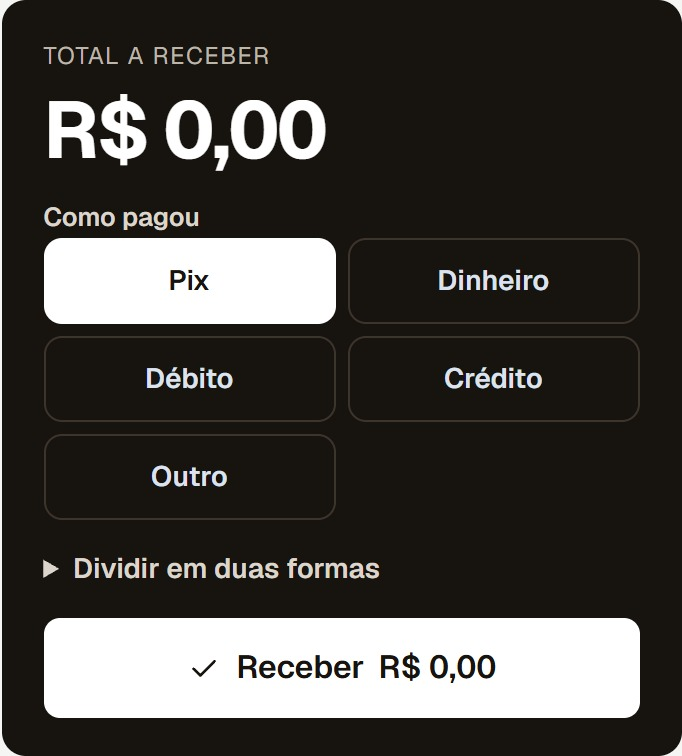
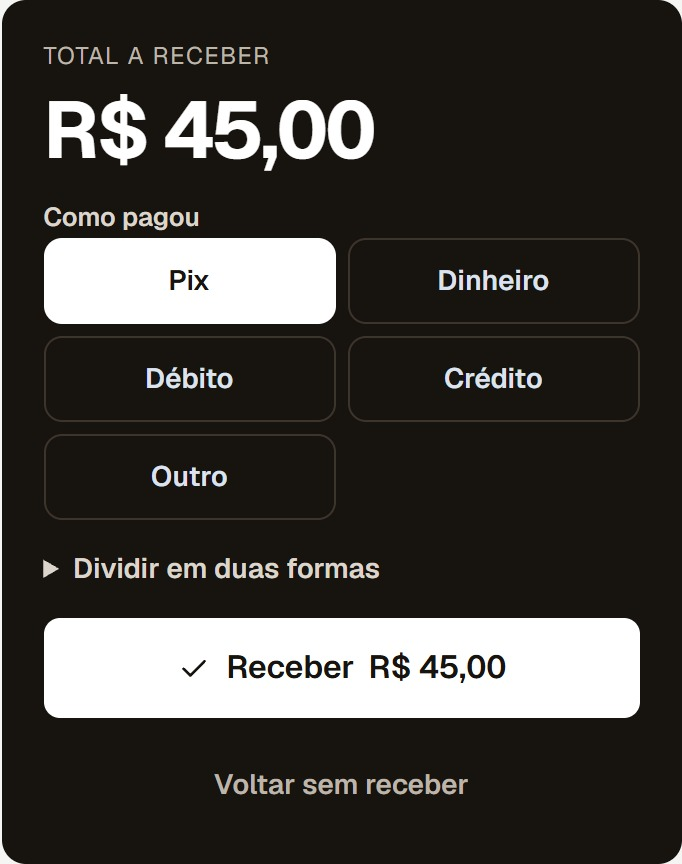
Home: comanda e comissao com dados reais, tabela sem quebra e cards de preco iguais aos de /planos.

diff --git a/src/web/site.ts b/src/web/site.ts
@@ -93,13 +93,13 @@ export function home(o: { trialDays: number; user: boolean; plans: any[]; billin
         <p class="kicker">Caixa</p>
         <h2>Atendeu, fechou a comanda.</h2>
         <p class="body">Serviço extra, pomada, desconto e pagamento em Pix, dinheiro com troco, débito, crédito ou dividido em dois. No fim do dia, o caixa mostra quanto entrou em cada forma e quanto devia ter na gaveta.</p>
-        <figure class="screen pay">${shot({ src: 'demo-comanda.jpg', w: 682, h: 756, alt: 'Comanda de um corte de 45 reais com as formas de pagamento Pix, dinheiro, débito, crédito ou outro' })}</figure>
+        <figure class="screen pay">${shot({ src: 'demo-comanda.jpg', w: 682, h: 864, alt: 'Comanda de um corte de 45 reais com as formas de pagamento Pix, dinheiro, débito, crédito ou outro' })}</figure>
       </div>
       <div>
         <p class="kicker">Comissão</p>
         <h2>Comissão que o barbeiro entende.</h2>
         <p class="body">Você define a porcentagem de cada um. A cada comanda, o sistema separa o que é dele e o que fica na barbearia, já com o desconto tirado. Produto vendido não entra. Ele vê a dele no celular; você vê a de todos.</p>
-        <figure class="screen">${shot({ src: 'demo-comissao.jpg', w: 1148, h: 692, alt: 'Comissões do mês por barbeiro: quanto atendeu, quanto é dele e quanto fica na barbearia, com explicação do cálculo' })}</figure>
+        <figure class="screen">${shot({ src: 'demo-comissao.jpg', w: 1148, h: 750, alt: 'Comissões do mês por barbeiro: quanto atendeu, quanto é dele e quanto fica na barbearia, com explicação do cálculo' })}</figure>
       </div>
     </div></section>
 
@@ -127,12 +127,7 @@ export function home(o: { trialDays: number; user: boolean; plans: any[]; billin
     <section class="prices" id="precos"><div class="wrap">
       <h2>Preços</h2>
       <p class="body">Mensalidade fixa, sem taxa por agendamento. Todos os planos começam com ${o.trialDays} dias grátis e incluem agenda, página de agendamento, lembretes, caixa e clientes.</p>
-      ${!priced ? h`<p class="price-note"><b>Os preços ainda estão sendo definidos.</b><span>Enquanto isso, você testa por ${o.trialDays} dias sem cartão. Nada é cobrado sem você escolher um plano, e o preço aparece aqui antes.</span></p>` : h`<div class="pl">${o.plans.map((p, i) => h`<article class="${i === 1 ? 'pick' : ''}">
-        <h3>${p.name}</h3>
-        <p class="pl-price">${p.price_cents > 0 ? h`<b>${brl(p.price_cents)}</b><small>/mês</small>` : h`<b class="tbd">Preço a definir</b>`}</p>
-        <p class="pl-limit">${p.max_professionals ? `Até ${p.max_professionals} profissionais` : 'Profissionais sem limite'}${(p.features as string[]).includes('comissoes') ? ' · comissões' : ''}</p>
-      </article>`)}</div>`}
-      <p class="more"><a href="/planos">Ver o que cada plano inclui</a></p>
+      ${!priced ? h`<p class="price-note"><b>Os preços ainda estão sendo definidos.</b><span>Enquanto isso, você testa por ${o.trialDays} dias sem cartão. Nada é cobrado sem você escolher um plano, e o preço aparece aqui antes.</span></p>` : h`<div class="price-grid home-prices">${priceCards(o.plans)}</div>`}
     </div></section>
 
     <section class="faq-home"><div class="wrap">
@@ -214,16 +209,21 @@ export function privacyPage(user: boolean) {
     <h2>9. Segurança</h2><p>Senhas protegidas por hash, conexões cifradas, separação dos dados de cada barbearia no banco, registro de ações sensíveis e cópias de segurança.</p>
     <p>Se acontecer um incidente de segurança que possa causar risco ou dano relevante às pessoas, avisamos a Autoridade Nacional de Proteção de Dados (ANPD) e os titulares afetados em até 3 dias úteis, como pede a Resolução CD/ANPD nº 15/2024, e as barbearias afetadas no mesmo prazo.</p>
     <h2>10. Alterações</h2><p>Esta política pode ser atualizada; mudanças relevantes serão avisadas no painel.</p></main>`, { user, desc: 'Política de privacidade.' });
-}export function plansPage(plans: any[], user: boolean, billingOpen = true) {
-  const priced = plans.some((p) => p.price_cents > 0);
-  return shell(`Planos · ${PLATFORM.name}`, h`<main>
-    <section class="wrap plans-head"><h1>Planos</h1><p>Mensalidade fixa, sem taxa por agendamento, sem fidelidade. Todos começam com teste grátis.</p>${billingOpen ? '' : launchNotice}</section>
-    <section class="wrap price-grid">${plans.map((p, i) => h`<article class="price-card ${i === 1 ? 'pick' : ''}">
+}
+/** Cards de plano: os mesmos na página inicial e em /planos. */
+function priceCards(plans: any[]) {
+  return plans.map((p, i) => h`<article class="price-card ${i === 1 ? 'pick' : ''}">
       <h2>${p.name}</h2>
       <p class="pc-price">${p.price_cents > 0 ? h`${brl(p.price_cents)}<small>/mês</small>` : h`<span class="muted">Preço em definição</span>`}</p>
       <p class="pc-trial">${p.trial_days} dias de teste</p>
       <ul><li>${p.max_professionals ? `Até ${p.max_professionals} profissionais` : 'Profissionais ilimitados'}</li>${(p.features as string[]).map((f) => h`<li>${FEATURE[f] ?? f}${SOON.has(f) ? h` <span class="soon">em breve</span>` : ''}</li>`)}</ul>
-      <a class="btn ${i === 1 ? 'primary' : ''} wide" href="/criar-conta">Testar grátis</a></article>`)}</section>
+      <a class="btn ${i === 1 ? 'primary' : ''} wide" href="/criar-conta">Testar grátis</a></article>`);
+}
+export function plansPage(plans: any[], user: boolean, billingOpen = true) {
+  const priced = plans.some((p) => p.price_cents > 0);
+  return shell(`Planos · ${PLATFORM.name}`, h`<main>
+    <section class="wrap plans-head"><h1>Planos</h1><p>Mensalidade fixa, sem taxa por agendamento, sem fidelidade. Todos começam com teste grátis.</p>${billingOpen ? '' : launchNotice}</section>
+    <section class="wrap price-grid">${priceCards(plans)}</section>
     <section class="wrap faq"><h2>Perguntas frequentes</h2>
       <details><summary>Preciso de cartão para testar?</summary><p>Não. Você cria a conta, configura e testa. A cobrança só começa quando você escolhe assinar.</p></details>
       <details><summary>Como pago?</summary><p>Pela tela Assinatura do painel. O pagamento é processado por um intermediador de pagamentos; nós não guardamos dados de cartão.</p></details>

diff --git a/src/web/ops.ts b/src/web/ops.ts
@@ -131,7 +131,7 @@ export function reportPage(ctx: Ctx, r: any, commissionsOn: boolean, f: F) {
     <section class="block"><div class="block-head"><h2>Faturamento por dia</h2></div>${r.revenue ? bars(r.days) : h`<p class="empty">Sem vendas registradas neste mês. As vendas entram aqui quando a comanda é fechada no caixa.</p>`}</section>
     <div class="cols">
       <section class="block"><h2>Comissões por profissional</h2>
-        ${commissionsOn ? (r.byPro.length ? h`${commissionExplainer(r.byPro[0], base)}<table class="mini comm"><thead><tr><th>Profissional</th><th class="r">Atendeu em serviços</th><th class="r">Para ele</th><th class="r">Para a barbearia</th></tr></thead><tbody>${r.byPro.map((p: any) => h`<tr><td><b>${p.name}</b><small class="muted"> · ${effPct(p)}% · ${p.count} ${p.count === 1 ? 'comanda' : 'comandas'}</small></td><td class="r">${brl(p.services)}</td><td class="r"><b>${brl(p.commission)}</b></td><td class="r muted">${brl(p.services - p.commission)}</td></tr>`)}</tbody></table>` : h`<p class="empty">Sem comandas no mês. A comissão aparece aqui quando um atendimento é cobrado no caixa.</p>`)
+        ${commissionsOn ? (r.byPro.length ? h`${commissionExplainer(r.byPro[0], base)}<table class="mini comm"><thead><tr><th>Profissional</th><th class="r">Atendeu em serviços</th><th class="r">Para ele</th><th class="r">Para a barbearia</th></tr></thead><tbody>${r.byPro.map((p: any) => h`<tr><td><b>${p.name}</b><small class="muted">${effPct(p)}% · ${p.count} ${p.count === 1 ? 'comanda' : 'comandas'}</small></td><td class="r">${brl(p.services)}</td><td class="r"><b>${brl(p.commission)}</b></td><td class="r muted">${brl(p.services - p.commission)}</td></tr>`)}</tbody></table>` : h`<p class="empty">Sem comandas no mês. A comissão aparece aqui quando um atendimento é cobrado no caixa.</p>`)
           : h`<div class="upsell"><p>O cálculo automático de comissões faz parte do plano Profissional.</p>${can(ctx, 'billing.manage') ? h`<a class="btn sm" href="${base}/assinatura">Ver planos</a>` : ''}</div>`}
       </section>
       <section class="block"><h2>Formas de pagamento</h2>${r.pays.length ? h`<ul class="barlist">${r.pays.map((p: any) => h`<li><span>${METHODS[p.method]}</span><i style="--w:${Math.round((p.v / Math.max(1, r.revenue)) * 100)}%"></i><b>${brl(p.v)}</b></li>`)}</ul>` : h`<p class="empty">—</p>`}

diff --git a/src/public/app.css b/src/public/app.css
@@ -598,9 +598,9 @@ a.now-name:hover{text-decoration:underline;text-underline-offset:4px}
 .explain{font-size:14px;line-height:1.55;color:var(--ink2,var(--ink));background:var(--info-soft);border-radius:var(--r);padding:12px 14px;margin:0 0 14px}
 .explain b{color:var(--ink)}
 .explain a{display:inline-block;margin-left:4px;font-weight:600}
-.comm td small{white-space:nowrap}
-.comm th{text-align:left;font-size:12px;color:var(--muted);font-weight:600;vertical-align:bottom}
-.comm th.r{text-align:right}
+.comm td small{display:block;margin-top:2px;font-size:12.5px}
+.comm th{text-align:left;font-size:12px;color:var(--muted);font-weight:600;vertical-align:bottom;padding:0 0 8px;white-space:nowrap}
+.comm th.r,.comm td.r{text-align:right;white-space:nowrap;padding-left:18px}
 .launch{display:grid;gap:10px;font-size:14px;line-height:1.55;background:var(--info-soft);border-color:transparent}
 .launch .row-btns{margin-top:4px}
 

diff --git a/src/public/site.css b/src/public/site.css
@@ -237,6 +237,7 @@ section h2{font-size:clamp(34px,4.4vw,54px)}
   .plain-grid{grid-template-columns:1fr;gap:24px}
 }
 
+.home-prices{margin-top:36px;padding-bottom:0}
 .price-note{margin-top:28px;display:grid;gap:6px;max-width:62ch;border:1.5px solid var(--line2);border-radius:14px;padding:22px 24px}
 .price-note b{font:800 22px/1.2 var(--f-display);letter-spacing:-.02em}
 .price-note span{color:var(--ink2)}
